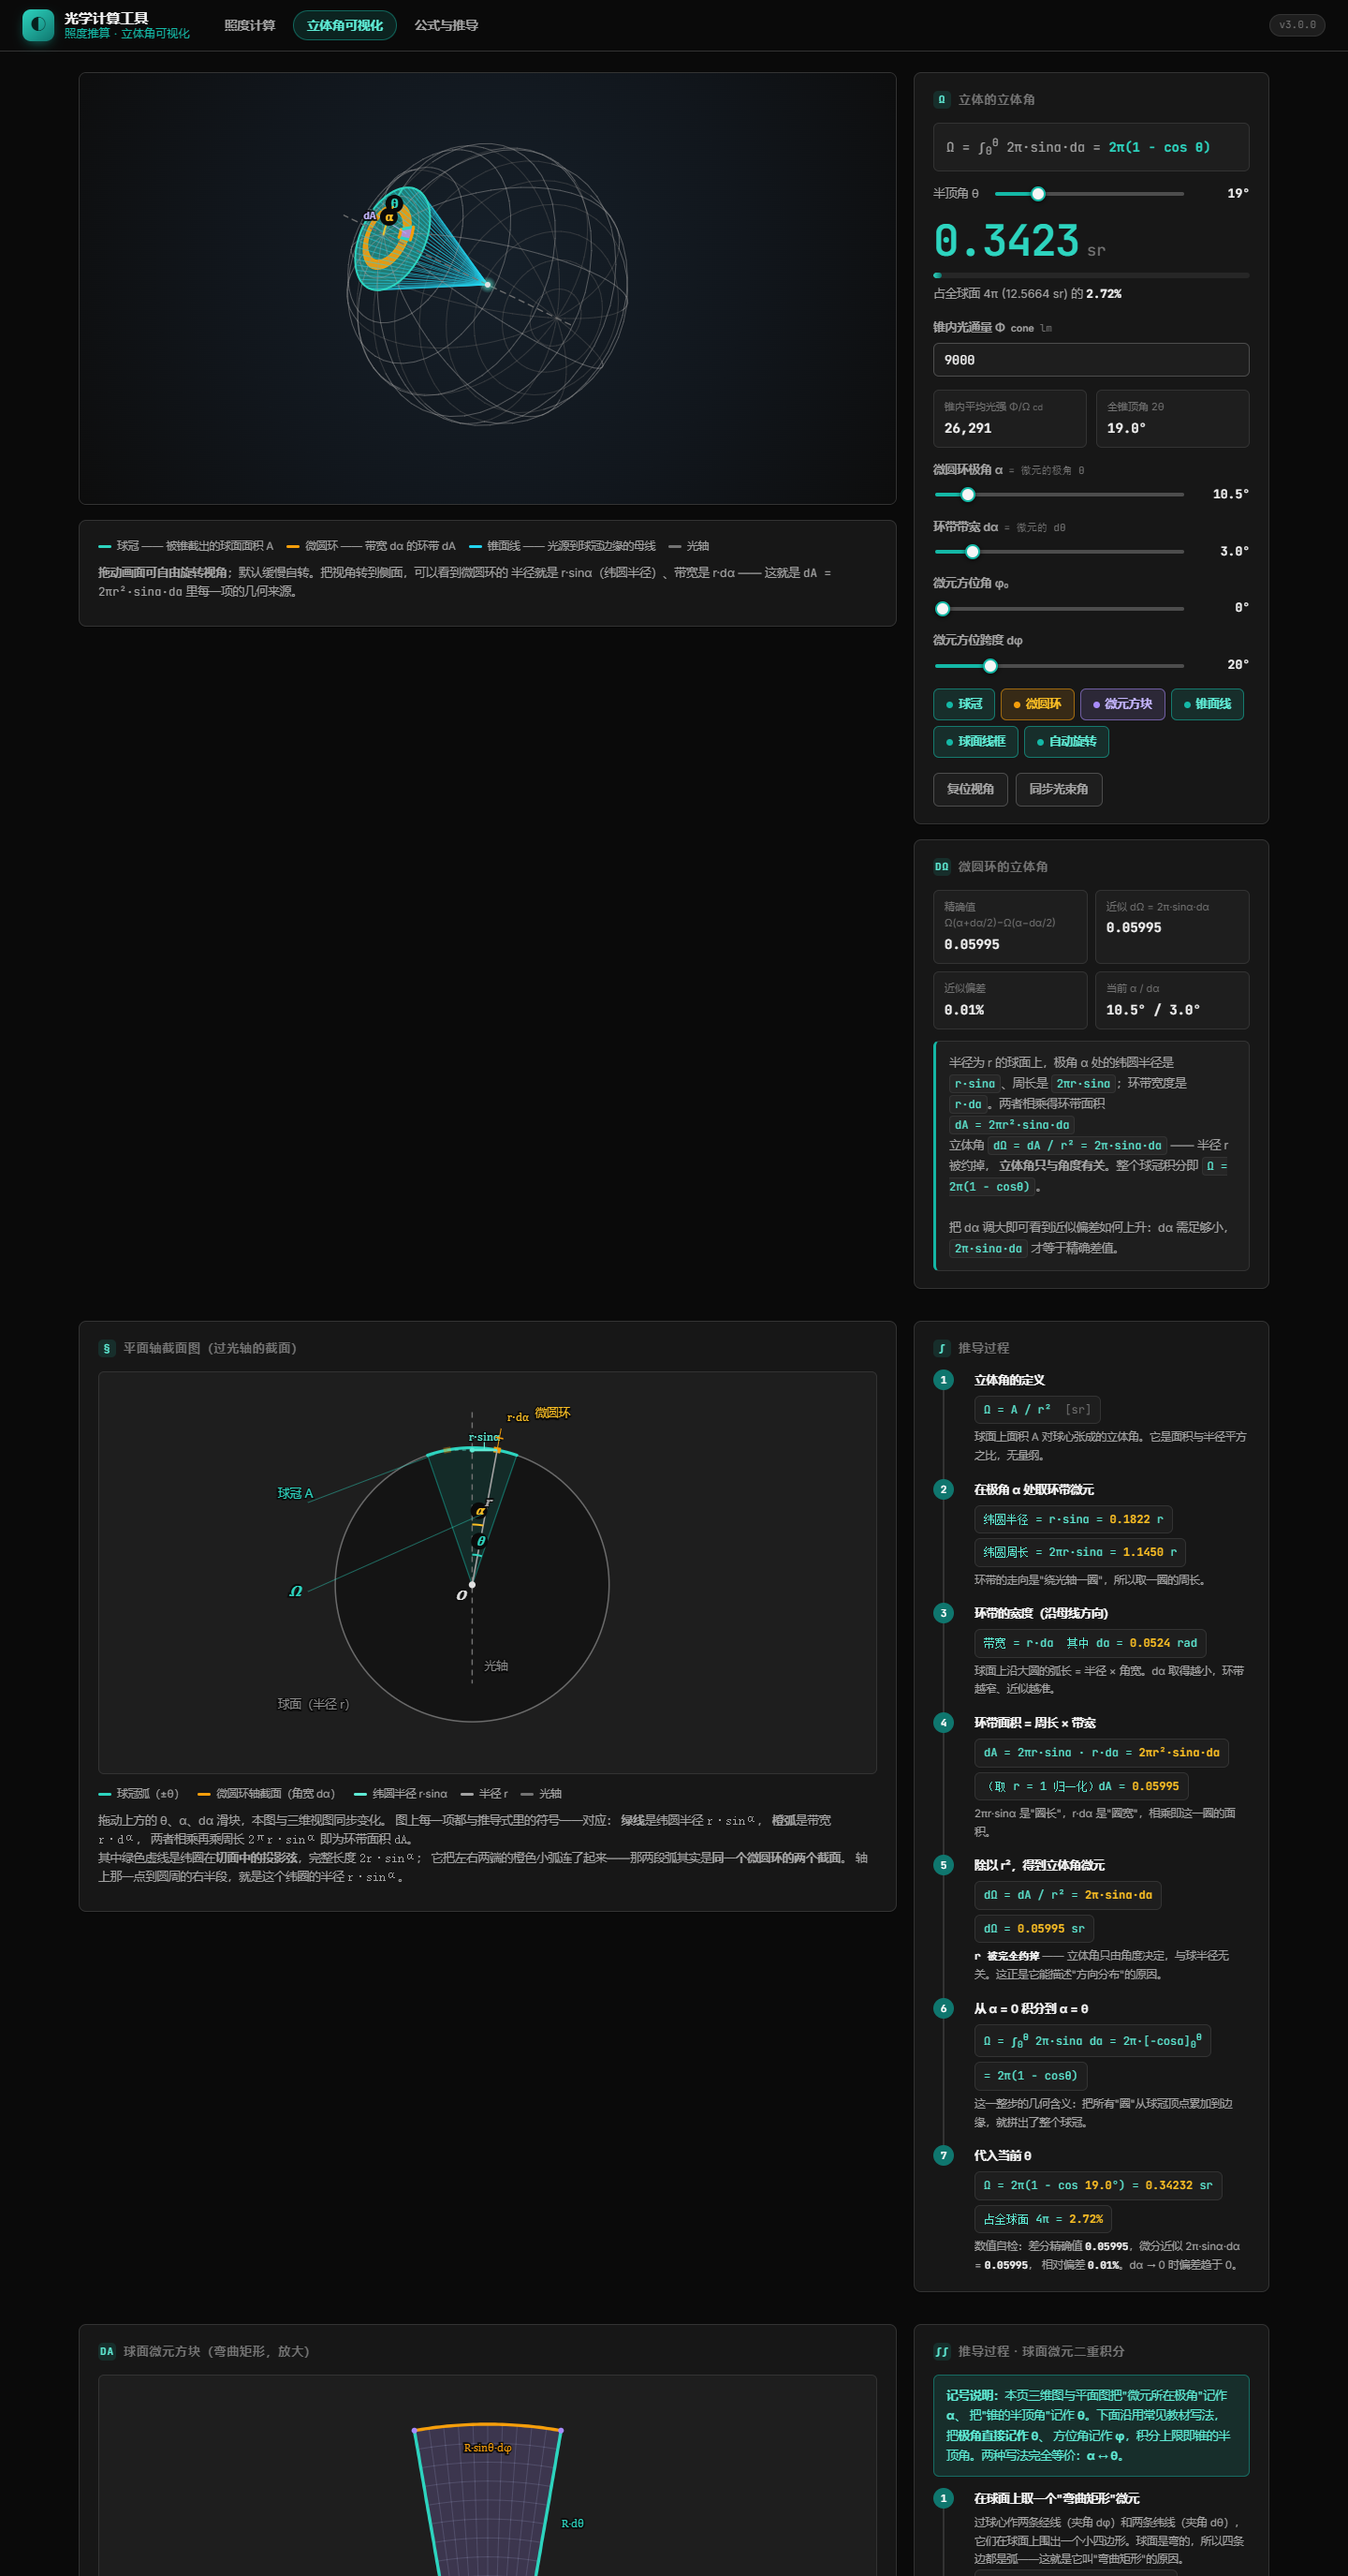
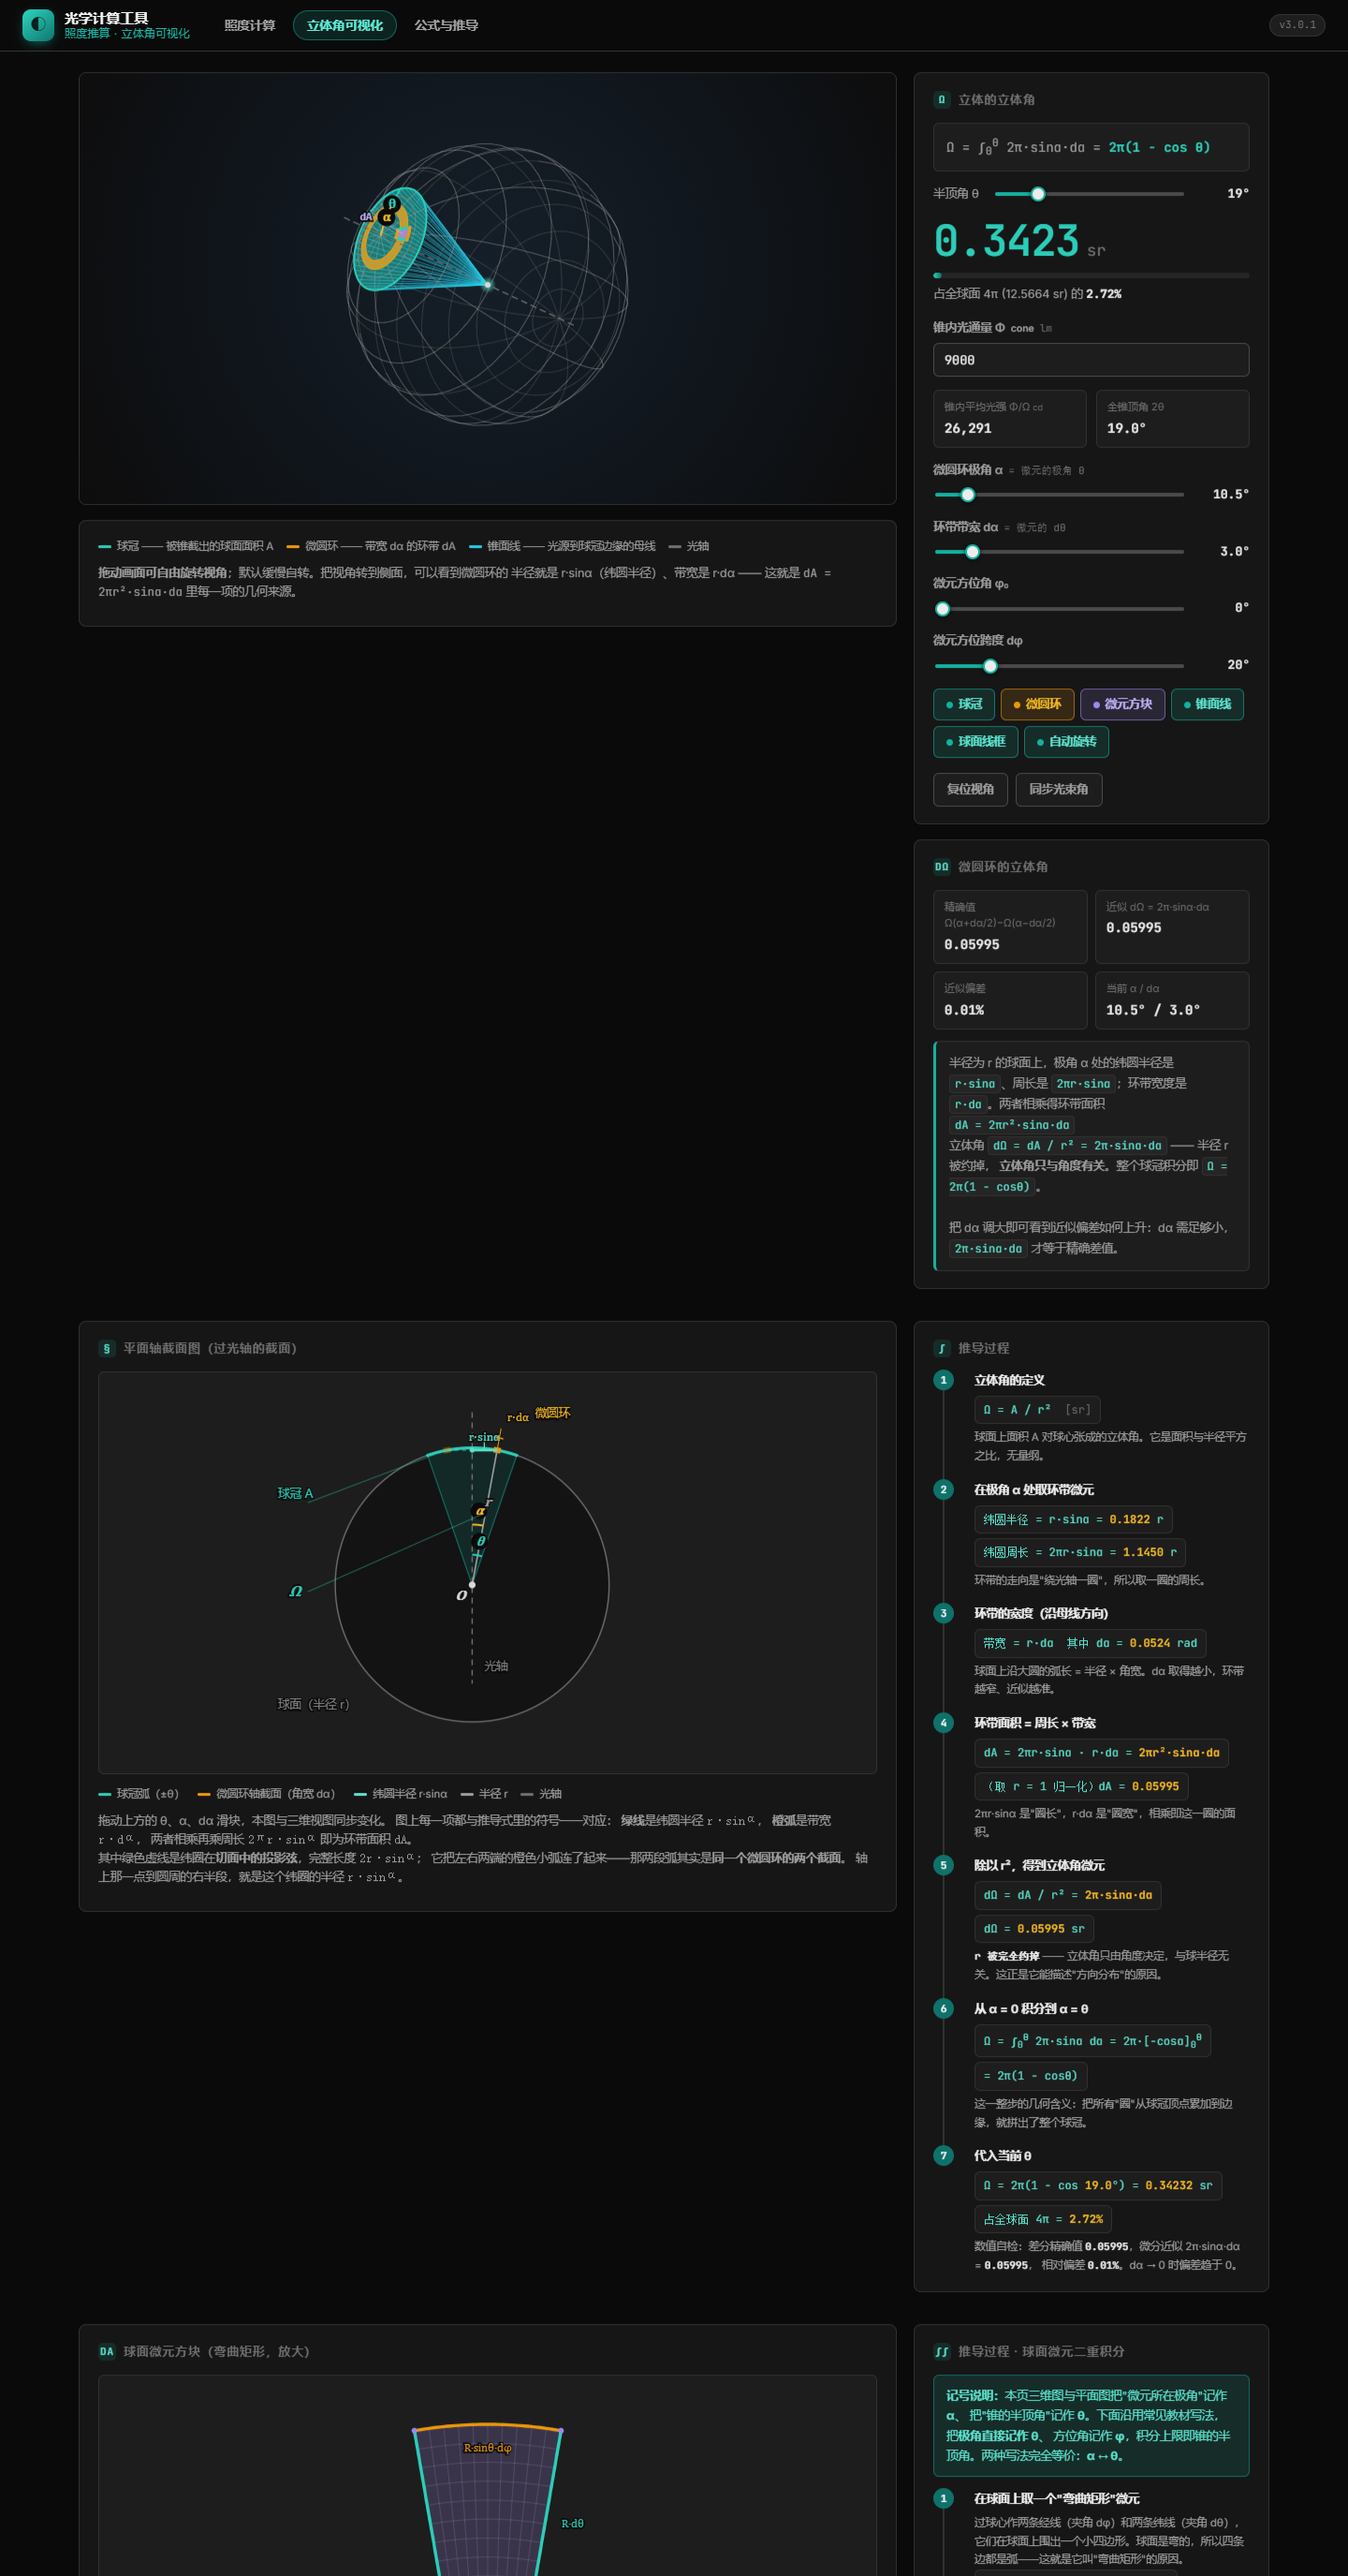
v3.0.1 修复伪彩照度图上标注看不清（对比度 2.22:1 → 20.26:1）
被照面照度分布图（俯视伪彩）上的「½Imax 光斑 R=…」标注，原实现用
rgba(255,255,255,.8) 的裸白文字直接压在伪彩上。参考圆与标注落在圆盘边缘，
该处底色是 rgb(54,177,139) 的青绿，实测文字对比度仅 2.22:1
（WCAG AA 正文要求 4.5:1）、参考圆白线 2.56:1 —— 确实看不清。

改为深色圆角底衬 + 纯白文字（15.25:1）；参考圆改为「先描深色再描白」的
双描边（7.7:1）。画布像素实测：底衬像素 460 个（相对亮度低至 0.0018）、
白字笔画 428 个（亮度 1.0），实测对比度 20.26:1。

根源不是"选错了颜色"：伪彩图横跨深蓝→青→黄→红整个色域，任何单一文字色
都必然在某些区域对比度不足。叠加在彩色图上的元素必须自带底衬或描边，
并按最坏底色核算对比度。已把这条固化成断言 ——

theme-check 新增 6 项：按 WCAG 相对亮度公式，取「底衬叠在最亮伪彩色
rgb(240,206,48) 上」这一最坏情况，算出文字 13.3:1、参考圆 7.7:1；并断言
底衬不透明度 ≥ 0.6、双描边与底衬的实现确在代码中。该项由 34 增至 40 项。

5 个套件全绿（主题 40 / 版本 14 / 内核 41 / 冒烟 38）。

Changed region(s): [[0.25, 0.0618, 0.4688, 0.1545], [0.7188, 0.9273, 0.8125, 0.9582]]

diff --git a/tests/theme-check.js b/tests/theme-check.js
@@ -142,12 +142,13 @@ for (const f of ['js/planar.js', 'js/solidangle.js']) {
 }
 ok('planar/solidangle 内白色残留', whiteLeft, 0);
 
-// charts.js 的伪彩图本身是彩色，画在其上的白色参考圆/十字/标注是正当的，
-// 因此只固定已知的 3 处，超出即视为回归（例如误把曲线图区域改成白）。
+// charts.js 的伪彩图本身是彩色，画在其上的白线白字是正当的 —— 但它们必须
+// 带底衬或描边（见第 5 节的对比度断言），且只允许出现在 C 常量定义里。
+// 目前 2 处：heatMark（参考圆与标注文字）、heatCross（中心十字）。
 const chSrc = read('js/charts.js');
 const chWhite = (chSrc.match(/'rgba\(255,\s*255,\s*255/g) || []).length +
                 (chSrc.match(/'#(fff|ffffff)'/gi) || []).length;
-ok('charts.js 白色数量（仅伪彩图上的参考圆/十字/标注）', chWhite, 3);
+ok('charts.js 白色字面量数量（仅 heatMark / heatCross）', chWhite, 2);
 
 const LIGHT_TELLS = ['#eef2f7', '#f8fafc', '#f1f5f9', '#0f172a', '#475569'];
 const kept = LIGHT_TELLS.filter((c) => new RegExp(c + '\\b', 'i').test(css));
@@ -157,6 +158,51 @@ okTrue('body 背景为深色（--bg = #0a0a0a）', sameRgb(bgVal, '#0a0a0a'),
   bgVal ? '--bg = ' + bgVal.trim() : '--bg 未定义');
 okTrue('已定义 3D 画布的深色底，不含白色径向渐变',
   !/radial-gradient\([^)]*#ffffff/i.test(css), '检查 .canvas-3d');
+
+/* ---------- 5. 伪彩图上的叠加元素：对比度下限 ---------- */
+console.log('\n=== 5. 伪彩图叠加元素的对比度 ===');
+/* 伪彩照度图横跨深蓝→青→黄→红整个色域，其上叠加的参考圆与标注文字
+   必须自带底衬/描边 —— 已验证的缺陷：白色半透明文字压在青绿区上看不清。
+   这里按 WCAG 的相对亮度公式，取「底衬叠在最亮伪彩色上」这一最坏情况算对比度。 */
+function srgbToLin(c) {
+  c = c / 255;
+  return c <= 0.03928 ? c / 12.92 : Math.pow((c + 0.055) / 1.055, 2.4);
+}
+function relLum(rgb) {
+  return 0.2126 * srgbToLin(rgb[0]) + 0.7152 * srgbToLin(rgb[1]) + 0.0722 * srgbToLin(rgb[2]);
+}
+function contrastRgb(a, b) {
+  const la = relLum(a), lb = relLum(b);
+  return (Math.max(la, lb) + 0.05) / (Math.min(la, lb) + 0.05);
+}
+function alphaOf(s) {
+  const m = String(s).match(/rgba\(\s*[\d.]+\s*,\s*[\d.]+\s*,\s*[\d.]+\s*,\s*([\d.]+)\s*\)/);
+  return m ? parseFloat(m[1]) : 1;
+}
+function over(fg, alpha, bg) {
+  return [0, 1, 2].map((i) => fg[i] * alpha + bg[i] * (1 - alpha));
+}
+
+// 解析伪彩色标，取相对亮度最高的一档作为最坏底色
+const stops = [...chSrc.matchAll(/\[\s*[\d.]+\s*,\s*\[\s*(\d+)\s*,\s*(\d+)\s*,\s*(\d+)\s*\]\s*\]/g)]
+  .map((m) => [+m[1], +m[2], +m[3]]);
+okTrue('已解析出伪彩色标停靠点', stops.length >= 5, `共 ${stops.length} 档`);
+const brightest = stops.reduce((a, b) => (relLum(a) > relLum(b) ? a : b), stops[0]);
+console.log(`       最亮伪彩色 = rgb(${brightest.join(',')})，相对亮度 ${relLum(brightest).toFixed(3)}`);
+
+// 标注文字：白字 + 深色底衬
+const txtC = contrastRgb(parseColor(CH.heatMark), over(parseColor(CH.heatLabelBg), alphaOf(CH.heatLabelBg), brightest));
+okTrue(`标注文字在最坏底色上对比度 ${txtC.toFixed(1)}:1（WCAG AA 要求 ≥ 4.5）`, txtC >= 4.5);
+okTrue('标注文字底衬不透明度足够（≥ 0.6）', alphaOf(CH.heatLabelBg) >= 0.6,
+  'heatLabelBg alpha = ' + alphaOf(CH.heatLabelBg));
+
+// 参考圆白线：两侧有深色描边，有效底色同样按描边合成算
+const lineC = contrastRgb(parseColor(CH.heatMark), over(parseColor(CH.heatMarkHalo), alphaOf(CH.heatMarkHalo), brightest));
+okTrue(`参考圆白线在最坏底色上对比度 ${lineC.toFixed(1)}:1`, lineC >= 4.5);
+okTrue('参考圆已实现「先描深色再描白」的双描边',
+  /strokeStyle\s*=\s*C\.heatMarkHalo/.test(chSrc) && /strokeStyle\s*=\s*C\.heatMark\b/.test(chSrc));
+okTrue('伪彩图标注使用底衬而非裸文字',
+  /fillStyle\s*=\s*C\.heatLabelBg/.test(chSrc));
 
 console.log(`\n主题一致性：通过 ${pass} 项，失败 ${fail} 项`);
 process.exit(fail === 0 ? 0 : 1);

diff --git a/js/charts.js b/js/charts.js
@@ -20,7 +20,14 @@
     marker2: '#a78bfa',                  // --c-r10
     teal:    '#5eead4',                  // --c-eavg
     pointFill:   '#0a0a0a',              // 关键点填充：深色底上形成彩色环
-    heatBorder:  '#6b6b6b'               // 伪彩图外框：深色底上需可见
+    heatBorder:  '#6b6b6b',              // 伪彩图外框：深色底上需可见
+    /* 伪彩照度图横跨深蓝→青→黄→红整个色域，其上叠加的参考圆与文字
+       必须自带底衬或描边 —— 任何单一文字色都必然在某些区域对比度不足。
+       实测缺陷：白色半透明文字压在青绿区上看不清（用户反馈）。 */
+    heatMark:     '#ffffff',             // 参考圆线 与 标注文字
+    heatMarkHalo: 'rgba(0,0,0,.60)',     // 参考圆的深色描边（先描深再描白）
+    heatLabelBg:  'rgba(8,8,8,.80)',     // 标注文字底衬
+    heatCross:    'rgba(255,255,255,.95)' // 中心十字
   };
 
   function setup(canvas) {
@@ -296,26 +303,43 @@
     // 半光强光斑参考圆
     if (cfg.r50 > 0 && cfg.r50 * scale < Math.max(pw, ph)) {
       ctx.save();
+      var rpx = cfg.r50 * scale;
+      var ccx = ox + pw / 2, ccy = oy + ph / 2;
+
+      // 参考圆：先描一遍深色粗线再叠白线。
+      // 只描白线时，压在伪彩的高亮区（黄/橙/红）上几乎看不见。
       ctx.setLineDash([5, 4]);
-      ctx.strokeStyle = '#ffffff';
-      ctx.lineWidth = 1.5;
-      ctx.globalAlpha = .95;
+      ctx.strokeStyle = C.heatMarkHalo;
+      ctx.lineWidth = 3.8;
       ctx.beginPath();
-      ctx.arc(ox + pw / 2, oy + ph / 2, cfg.r50 * scale, 0, 6.2832);
+      ctx.arc(ccx, ccy, rpx, 0, 6.2832);
       ctx.stroke();
-      ctx.globalAlpha = .8;
-      ctx.fillStyle = '#ffffff';
-      ctx.font = '10px ui-monospace, Consolas, monospace';
+      ctx.strokeStyle = C.heatMark;
+      ctx.lineWidth = 1.6;
+      ctx.stroke();
+
+      // 标注文字：加深色底衬。伪彩是全色域，文字要么有底衬、要么在某些
+      // 区域必然对比度不足 —— 这是唯一稳妥的做法。
+      ctx.setLineDash([]);
+      ctx.font = '600 10.5px ui-monospace, Consolas, monospace';
       ctx.textAlign = 'center';
-      ctx.textBaseline = 'bottom';
-      ctx.fillText('½Imax 光斑  R=' + cfg.r50.toFixed(2) + ' m',
-                   ox + pw / 2, oy + Math.max(10, ph / 2 - cfg.r50 * scale - 3));
+      ctx.textBaseline = 'middle';
+      var label = '½Imax 光斑  R=' + cfg.r50.toFixed(2) + ' m';
+      var ly = Math.max(oy + 11, ccy - rpx - 11);   // 圆外上方；空间不够时退回圆内
+      var tw = ctx.measureText(label).width;
+      ctx.fillStyle = C.heatLabelBg;
+      ctx.beginPath();
+      if (ctx.roundRect) ctx.roundRect(ccx - tw / 2 - 7, ly - 9.5, tw + 14, 19, 5);
+      else ctx.rect(ccx - tw / 2 - 7, ly - 9.5, tw + 14, 19);
+      ctx.fill();
+      ctx.fillStyle = C.heatMark;
+      ctx.fillText(label, ccx, ly);
       ctx.restore();
     }
 
     // 中心十字
-    ctx.strokeStyle = 'rgba(255,255,255,.75)';
-    ctx.lineWidth = 1;
+    ctx.strokeStyle = C.heatCross;
+    ctx.lineWidth = 1.2;
     ctx.beginPath();
     ctx.moveTo(ox + pw / 2 - 6, oy + ph / 2); ctx.lineTo(ox + pw / 2 + 6, oy + ph / 2);
     ctx.moveTo(ox + pw / 2, oy + ph / 2 - 6); ctx.lineTo(ox + pw / 2, oy + ph / 2 + 6);

diff --git a/js/version.js b/js/version.js
@@ -9,4 +9,4 @@
  * 会断言这一点。此前页脚写死 v1.0.0 而实际已迭代到 v2.0.1，页面显示的
  * 版本与实际版本各说各话，这是真实发生过的缺陷。
  * ============================================================ */
-window.APP_VERSION = 'v3.0.0';
+window.APP_VERSION = 'v3.0.1';

diff --git a/CHANGELOG.md b/CHANGELOG.md
@@ -8,6 +8,28 @@ annotated tag，并在本文件记录变更。
 
 对应站点：<https://wisdomhuang2020.github.io/optical-calculator/>
 
+## [v3.0.1] - 2026-09-17
+
+### 修复
+- **被照面照度分布图（俯视伪彩）上的「½Imax 光斑 R=…」标注看不清。**
+  该图横跨深蓝→青→黄→红整个色域，原实现把 `rgba(255,255,255,.8)` 的裸白文字
+  直接压在其上。参考圆与标注落在圆盘边缘，该处底色是 `rgb(54,177,139)` 的青绿，
+  实测**文字对比度仅 2.22:1**（WCAG AA 正文要求 4.5:1）、参考圆白线 2.56:1。
+  改为**深色圆角底衬 + 纯白文字**（对比度 **15.25:1**）；参考圆改为
+  「先描深色再描白」的双描边（7.7:1）。
+
+### 验证
+- 画布像素实测：底衬像素 460 个（相对亮度低至 **0.0018**）、白字笔画 428 个
+  （亮度 **1.0**），实测对比度 **20.26:1**（WCAG AAA 要求 7:1）
+- 主题一致性新增 6 项断言：按 WCAG 相对亮度公式，取「底衬叠在最亮伪彩色
+  `rgb(240,206,48)` 上」这一**最坏底色**计算文字与参考圆的对比度；并断言
+  底衬不透明度 ≥ 0.6、双描边与底衬的实现确在代码中。该项由 34 项增至 40 项
+
+### 说明
+- 这类缺陷读代码不易发现：**伪彩图是全色域，任何单一文字色都必然在某些区域
+  对比度不足**。凡是叠加在彩色图上的元素，都要自带底衬或描边，并按最坏底色
+  核算对比度 —— 现已成为受断言守护的规则。
+
 ## [v3.0.0] - 2026-09-17
 
 ### ⚠ 破坏性变更
